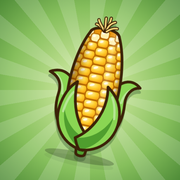
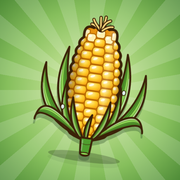
Bring back veined husk leaves and give the cob a bumpy kernel outline
Claude-Session: https://claude.ai/code/session_01UC9ARqXkBNybh3LQ7YcKBk

Changed region(s): [[0.1667, 0.0833, 0.8333, 0.9444]]

diff --git a/index.html b/index.html
@@ -371,6 +371,18 @@ const dstr=d=>d.getFullYear()+'-'+(d.getMonth()+1)+'-'+d.getDate();
 /* ---------- comic corn ---------- */
 let uid=0;
 const f=v=>v.toFixed(1);
+function leaf(b,c,t,w,c1,c2,ol){
+  const dx=t[0]-b[0],dy=t[1]-b[1],L=Math.hypot(dx,dy),nx=-dy/L,ny=dx/L;
+  const K=m=>[c[0]+nx*w*m,c[1]+ny*w*m],P=p=>f(p[0])+' '+f(p[1]);
+  const B=P(b),E=P(t),a=K(1),d=K(-.85),k=K(.68),u=.2,v=.78;
+  const sub=(s0,s1)=>[0,1].map(i=>(1-s0)*(1-s1)*b[i]+(s0*(1-s1)+s1*(1-s0))*k[i]+s0*s1*t[i]);
+  const pt=s=>[0,1].map(i=>(1-s)*(1-s)*b[i]+2*s*(1-s)*k[i]+s*s*t[i]);
+  const shape=`M${B}Q${P(a)} ${E}Q${P(d)} ${B}z`;
+  return `<path d="${shape}" fill="${c1}"/><path d="M${B}Q${P(K(0))} ${E}Q${P(d)} ${B}z" fill="${c2}"/>
+  <path d="${[0,.5,-.42,.82].map(m=>`M${B}Q${P(K(m))} ${E}`).join('')}" fill="none" stroke="${ol}" stroke-width="1.4" opacity=".4"/>
+  <path d="M${P(pt(u))}Q${P(sub(u,v))} ${P(pt(v))}" fill="none" stroke="#fff" stroke-width="3" stroke-linecap="round" opacity=".42"/>
+  <path d="${shape}" fill="none" stroke="${ol}" stroke-width="4" stroke-linejoin="round"/>`;
+}
 const Wd=y=>{const t=Math.max(0,Math.min(1,(y-30)/222));return 56*Math.pow(Math.sin(Math.PI*Math.min(1,.1+.75*t)),.45)};
 function cob(type,seed,still,skinId,layers){
   const sk=SK.find(s=>s.id===(skinId||S.cob))||SK[0];
@@ -378,9 +390,11 @@ function cob(type,seed,still,skinId,layers){
   const id='c'+(uid++),ol=t.ol,bad=type==='bad';
   const r=v=>{seed=(seed*9301+49297)%233280;return seed/233280*v};
   const hus=t.hus||(r(1)<.5?['#8ad653','#4f9e2e']:['#9ade5c','#5aa834']);
-  let L='',R='';
-  for(let y=30;y<=252;y+=6){const w=Wd(y);L+=`L${f(110-w)} ${y}`;R=`L${f(110+w)} ${y}`+R}
-  const body=`M110 16Q${f(110-Wd(30)*.9)} 17 ${L.slice(1)}Q110 268 ${R.slice(1)}Q${f(110+Wd(30)*.9)} 17 110 16z`;
+  // Bumpy silhouette: one outward bump per outer kernel instead of a smooth edge
+  const vy=[];for(let y=41.3;y<=258;y+=19.5)vy.push(y);
+  const side=sg=>vy.map((y,i)=>{const p=`${f(110+sg*(Wd(y)-1.5))} ${f(y)}`;if(!i)return p;const m=y-9.75;return `Q${f(110+sg*(Wd(m)+7))} ${f(m)} ${p}`});
+  const lf=side(-1),rt=side(1),up=rt.map((q,i)=>{if(i===rt.length-1)return '';const y=vy[i],m=y+9.75;return `Q${f(110+Wd(m)+7)} ${f(m)} ${f(110+Wd(y)-1.5)} ${f(y)}`}).reverse().join('');
+  const body=`M${lf.join('')}Q110 276 ${f(110+Wd(vy[vy.length-1])-1.5)} ${f(vy[vy.length-1])}${up}Q150 11 127 18Q110 5 93 18Q70 11 ${lf[0]}z`;
   let k='';
   for(let row=0;row<13;row++){
     for(let i=0;i<5;i++){
@@ -430,29 +444,24 @@ function cob(type,seed,still,skinId,layers){
     const d=`M${f(107+i*6/ns)} 22Q${f((110+ex)/2+cv)} ${f((22+ey)/2-6)} ${f(ex)} ${f(ey)}`;
     silk+=`<path d="${d}" fill="none" stroke="${ol}" stroke-width="7.500" stroke-linecap="round"/><path d="${d}" fill="none" stroke="${t.silk}" stroke-width="3.6" stroke-linecap="round"/>`;
   }
-  const j=()=>r(8)-4,dr=bad?16:0;
-  // husk(shape, crease, shine): one broad wrapped leaf with a darker inner side and a soft highlight
-  const husk=(d,crease,shine)=>`<path d="${d}" fill="${hus[0]}"/><path d="${crease}" fill="${hus[1]}"/><path d="${shine}" fill="none" stroke="#fff" stroke-width="5" stroke-linecap="round" opacity=".38"/><path d="${d}" fill="none" stroke="${ol}" stroke-width="6" stroke-linejoin="round"/>`;
-  const a1=j(),a2=j(),a3=j(),a4=j();
-  const backL=husk(`M102 280C58 268 30 228 36 ${176+dr}C38 ${156+dr} 30 ${140+dr} ${8+a1} ${136+a2+dr*1.6}C34 ${118+dr} 62 ${130+dr} 68 ${162+dr}C72 204 84 244 102 280z`,
-    `M102 280C70 262 48 226 46 ${182+dr}C60 ${200+dr} 76 244 102 280z`,`M44 ${176+dr}C42 ${158+dr} 36 ${146+dr} ${24+a1} ${140+a2+dr*1.4}`);
-  const backR=husk(`M118 280C162 268 190 228 184 ${170+dr}C182 ${150+dr} 192 ${132+dr} ${214+a3} ${126+a4+dr*1.6}C188 ${110+dr} 158 ${124+dr} 152 ${158+dr}C148 202 136 244 118 280z`,
-    `M118 280C150 262 172 226 174 ${178+dr}C160 ${198+dr} 144 244 118 280z`,`M176 ${170+dr}C178 ${152+dr} 186 ${140+dr} ${198+a3} ${134+a4+dr*1.4}`);
-  const frontL=husk(`M114 290C72 288 38 252 44 204C47 180 56 ${160+a2} ${72+a1} ${146+a2}C70 190 88 238 126 264Q122 282 114 290z`,
-    `M114 290C84 280 58 250 56 208C66 236 90 262 126 264Q122 282 114 290z`,`M54 214C56 196 60 180 68 168`);
-  const frontR=husk(`M106 290C150 288 186 250 178 198C174 174 164 ${154+a4} ${144+a3} ${138+a4}C150 186 132 238 92 266Q98 282 106 290z`,
-    `M106 290C138 280 164 248 166 204C156 234 130 262 92 266Q98 282 106 290z`,`M168 208C166 190 162 174 154 162`);
+  const j=()=>r(10)-5,dr=bad?14:0,wx=x=>110+(x-110)*1.2;
+  const pair=(b,c,tp,w)=>{const a=j(),e=j();return leaf(b,[wx(c[0]),c[1]],[wx(tp[0])+a,tp[1]+e+dr],w,hus[0],hus[1],ol)+leaf([220-b[0],b[1]],[220-wx(c[0]),c[1]],[220-wx(tp[0])-a,tp[1]+e+dr],-w,hus[0],hus[1],ol)};
+  const drop=(x,y)=>`<ellipse cx="${x}" cy="${y}" rx="4.2" ry="5.6" fill="#e2f7ff" stroke="${ol}" stroke-width="1.6" opacity=".92"/><ellipse cx="${x-1.3}" cy="${y-1.6}" rx="1.2" ry="1.8" fill="#fff"/>`;
   const defs=`<defs>${grad}
   <linearGradient id="${id}s" x1="0" x2="1"><stop offset="0" stop-color="${t.shade}" stop-opacity=".62"/><stop offset=".3" stop-color="${t.shade}" stop-opacity="0"/><stop offset=".6" stop-color="#fff" stop-opacity="0"/><stop offset=".7" stop-color="#fff" stop-opacity=".2"/><stop offset=".84" stop-color="${t.shade}" stop-opacity="0"/><stop offset="1" stop-color="${t.shade}" stop-opacity=".68"/></linearGradient>
   <clipPath id="${id}c"><path d="${body}"/></clipPath></defs>`;
   const rot=f(r(8)-4);
-  const U=`<ellipse cx="110" cy="306" rx="78" ry="11" fill="rgba(0,0,0,.22)"/>${backL}${backR}`;
+  const U=`<ellipse cx="110" cy="304" rx="80" ry="11" fill="rgba(0,0,0,.22)"/>${pair([106,266],[12,214],[20,112],-22)}${pair([106,266],[38,190],[52,62],-26)}`;
   const B=`<path d="${body}" fill="${t.base}"/>
-  <g clip-path="url(#${id}c)">${k}${bad?extra:''}<rect x="50" y="10" width="120" height="264" fill="url(#${id}s)"/>${bad?'':extra}</g>
-  <path d="${body}" fill="none" stroke="${ol}" stroke-width="6" stroke-linejoin="round"/>`;
+  <g clip-path="url(#${id}c)">${k}${bad?extra:''}<rect x="44" y="0" width="132" height="280" fill="url(#${id}s)"/>${bad?'':extra}</g>
+  <path d="${body}" fill="none" stroke="${ol}" stroke-width="5.500" stroke-linejoin="round"/>`;
   const O=`${silk}${heart}${worm}
-  <path d="M98 282h24l-2 16c-1 7-19 7-20 0z" fill="${hus[1]}" stroke="${ol}" stroke-width="6" stroke-linejoin="round"/>
-  ${frontL}${frontR}`;
+  ${pair([108,270],[52,240],[64,138],-15)}${pair([106,272],[14,176],[6,238],20)}${pair([108,274],[78,236],[76,176],-13)}
+  ${leaf([110,276],[102,248],[114+j(),212+j()],10,hus[0],hus[1],ol)}
+  <path d="M97 262h26l-3 34c-1 7-19 7-20 0z" fill="${hus[1]}" stroke="${ol}" stroke-width="4" stroke-linejoin="round"/>
+  <path d="M98 274q12 5 24 0" fill="none" stroke="${ol}" stroke-width="2" opacity=".5"/><path d="M102 268v22" stroke="#fff" stroke-width="3" stroke-linecap="round" opacity=".3"/>
+  <ellipse cx="110" cy="297" rx="9" ry="3" fill="${hus[0]}" stroke="${ol}" stroke-width="2"/>
+  ${bad?'':drop(48,200)+drop(178,152)}`;
   if(layers){
     const wrap=x=>`<svg xmlns="http://www.w3.org/2000/svg" viewBox="-30 -40 280 380" width="700" height="950">${defs}<g transform="rotate(${rot} 110 160)">${x}</g></svg>`;
     return layers===3?[wrap(U),wrap(B),wrap(O)]:[wrap(U+B+O)];
